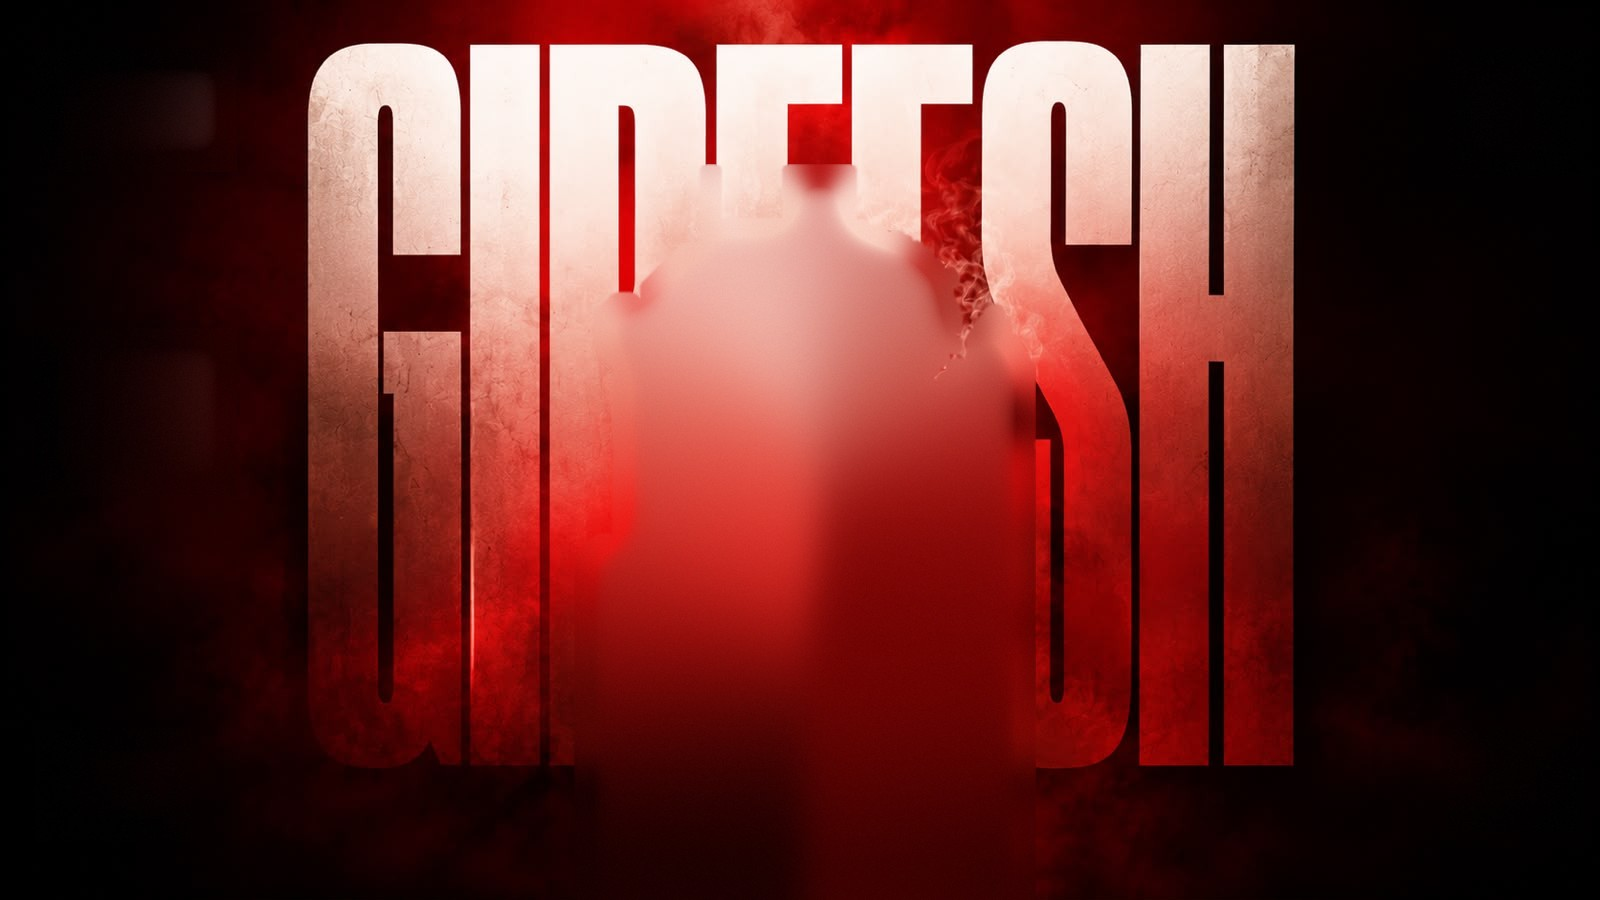
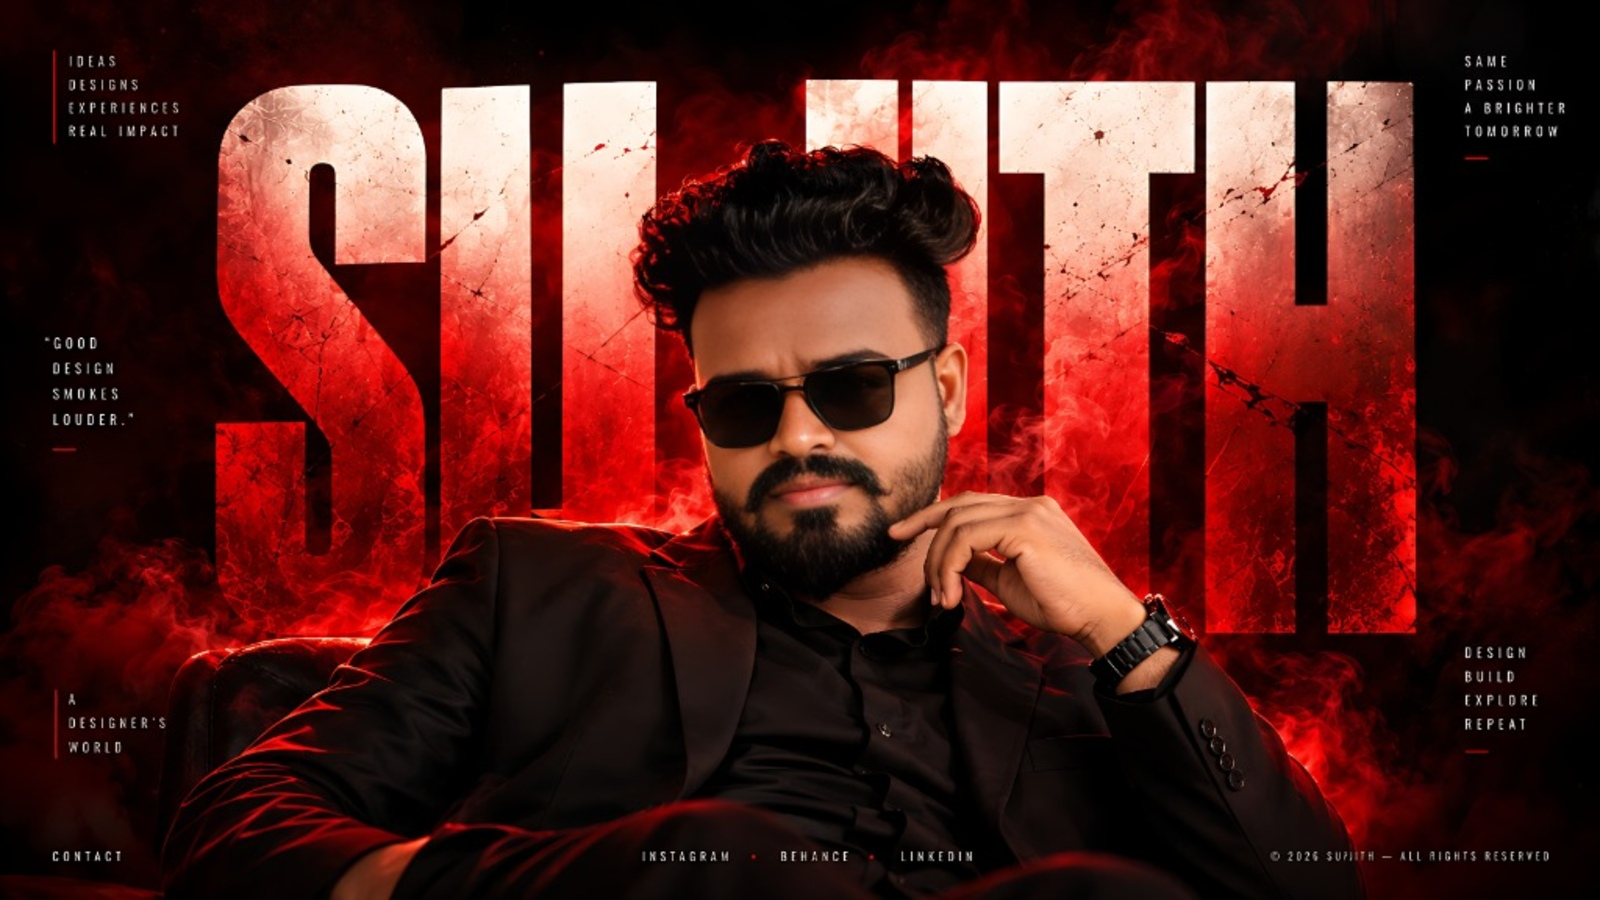
feat(finale): update finale with Surjith custom typography, red smoke plate, and 3D armchair figure

diff --git a/src/styles/finale.css b/src/styles/finale.css
@@ -91,23 +91,8 @@
    -------------------------------------------------------------------------- */
 
 .f-cap {
-  position: absolute;
-  margin: 0;
-  z-index: 4;
-  font-family: var(--ui);
-  font-size: clamp(8px, 0.72vw, 12px);
-  font-weight: 400;
-  line-height: 2.1;
-  letter-spacing: 0.42em;
-  text-transform: uppercase;
-  color: rgba(233, 220, 208, 0.72);
-  opacity: 0;
-  transform: translateY(10px);
-  transition: opacity 1s ease calc(var(--li, 0) * 0.15s),
-              transform 1.2s cubic-bezier(0.22, 1, 0.36, 1) calc(var(--li, 0) * 0.15s);
-  pointer-events: none;
+  display: none;
 }
-.fin.is-caps .f-cap { opacity: 1; transform: none; }
 
 .f-cap--tl {
   top: clamp(22px, 6vh, 58px);
@@ -160,26 +145,8 @@
    -------------------------------------------------------------------------- */
 
 .fin__bar {
-  position: absolute;
-  z-index: 7;
-  left: 0;
-  right: 0;
-  bottom: 0;
-  display: flex;
-  align-items: center;
-  justify-content: space-between;
-  gap: 18px;
-  padding: 14px clamp(20px, 3.6vw, 62px) 16px;
-  font-family: var(--ui);
-  font-size: clamp(8px, 0.66vw, 11px);
-  letter-spacing: 0.3em;
-  text-transform: uppercase;
-  color: rgba(216, 186, 174, 0.5);
-  opacity: 0;
-  transform: translateY(12px);
-  transition: opacity 1s ease, transform 1.2s cubic-bezier(0.22, 1, 0.36, 1);
+  display: none;
 }
-.fin.is-bar .fin__bar { opacity: 1; transform: none; }
 
 .fin__bar a {
   color: rgba(233, 220, 208, 0.7);

diff --git a/src/scene6/finale.js b/src/scene6/finale.js
@@ -28,7 +28,7 @@ export class Finale {
     this.texF = { man: texture(glF), grain: texture(glF, { wrap: 'repeat' }) };
     this.par = { x: 0, y: 0 };
     // the man's box in frame px, from fin.json - set by boot6
-    this.manBox = [580, 170, 450, 730];
+    this.manBox = [0, 138, 1367, 763];
   }
 
   async load() {
